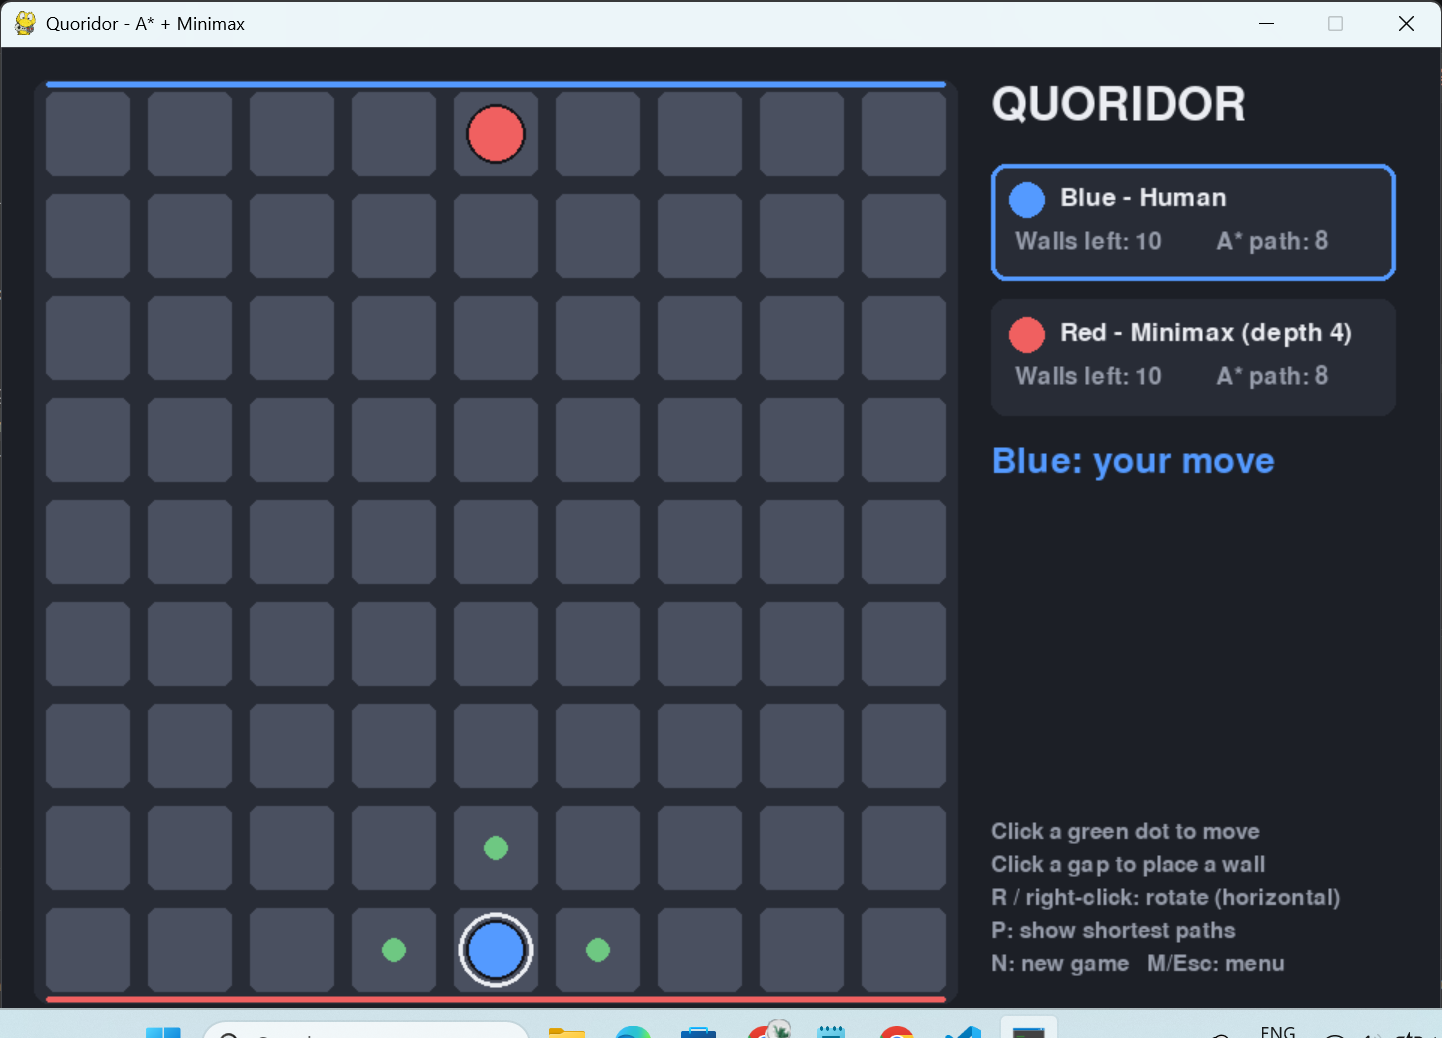
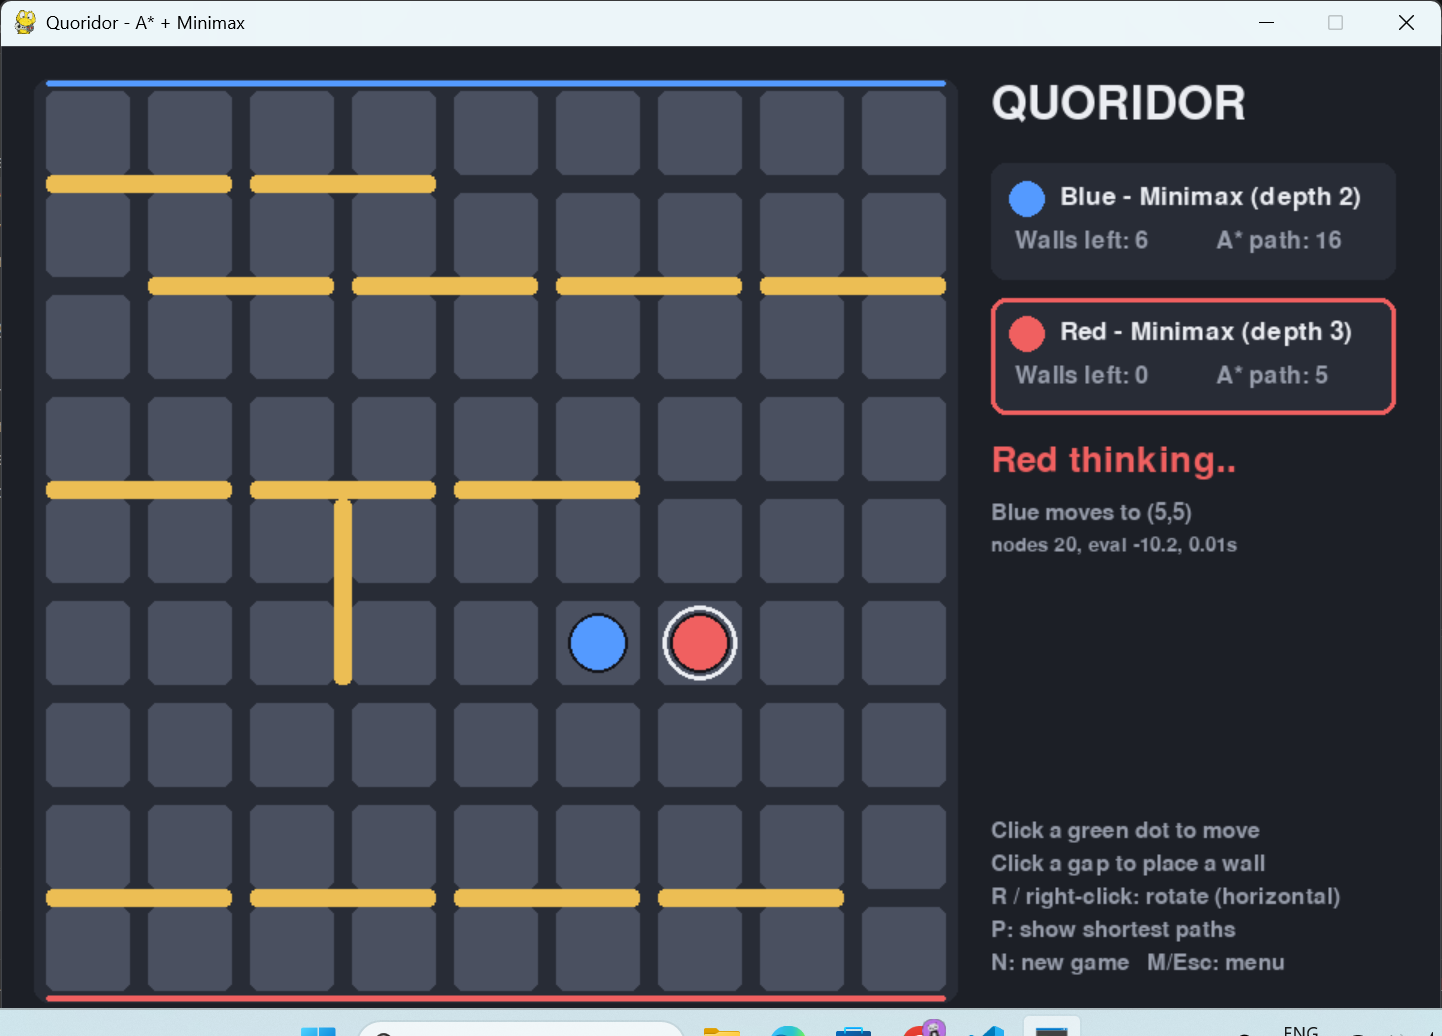
Readme update

diff --git a/README.md b/README.md
@@ -6,6 +6,10 @@ A playable Quoridor game with a Pygame UI. The AI uses only two algorithms:
   wall-legality rule (a wall may never seal a pawn in) and for the evaluation.
 * **Minimax** (plain, no Alpha-Beta) - looks ahead `N` plies and picks the best move.
 
+![Screenshot](screenshot.png)
+
+![Screeshot](image.png)
+
 ## Run
 
     pip install -r requirements.txt
